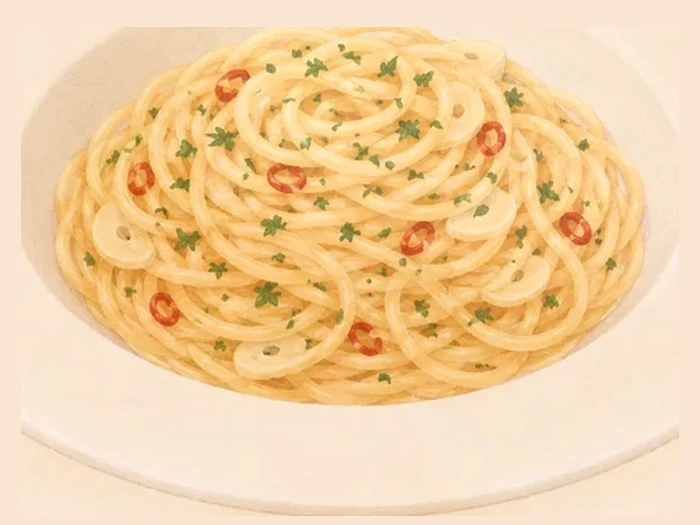
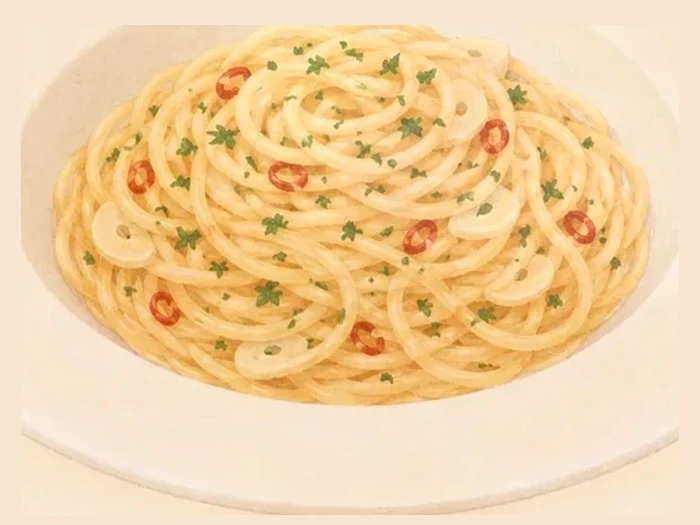
切圖改回「器皿完整優先」，撤掉框食物那套
⛔ 切圖解不了「食物看起來小」。試了三輪，每一輪都只是換一種失敗方式：
  · 框整盤（原本）        → 食物小
  · 框食物 + 留 6% 邊     → 盤子露九成又被削掉，最醜
  · 框食物 + 不留邊       → 每一張的盤子都被左右切斷

原因是兩個要求互斥：當原圖是「小份食物放在大盤中央」時，
框到食物就一定切到盤，框住盤就一定食物小。取景動不了構圖。

器皿完整是不能妥協的那個，所以固定回 bbox(SOLID)。
FOOD=70 留著，但只用來找「看得見的底緣」做貼底對齊，不再拿來框主體。

食物要變大只有一條路：重生成時讓食物填滿盤子。

diff --git a/index.html b/index.html
@@ -810,7 +810,7 @@ ol.steps li::before {
    ══════════════════════════════════════════════ */
 
 /* 素材版本。換過圖就 bump 一次，否則瀏覽器會一直用舊的快取 */
-const ASSETS = '53';
+const ASSETS = '54';
 const asset = p => p + '?v=' + ASSETS;
 
 const $ = (s, el = document) => el.querySelector(s);

diff --git a/assets/crop_dish.py b/assets/crop_dish.py
@@ -21,14 +21,11 @@ SOLID = 18                # 兩邊都會出事，18 是實測的中間值：
                           #    主體縮成小小一團浮在卡片中間（r10、r11 踩過）
                           #  r17 白盤：34→1102×728（切到盤）、18→1300×844（對）、
                           #  8→1424×1068（幾乎整張）。r10 小碟：8→712×476、18→558×334。
-FOOD = 70                 # 框「食物」用的門檻。器皿是白的、跟背景很近，
-                          # 用 SOLID 會把整個盤子框進去，食物就顯得小小一團。
-                          # 重點是菜不是盤子 —— 盤緣被切掉沒關係（r13 拌麵那張
-                          # 就是這樣，食物填掉 96% 的高度；框整盤的燉飯只有 60%）。
-FOOD_PAD = 0.0            # ⛔ 不要留邊。留 6% 會變成「盤子露九成、邊緣被削掉」，
-                          # 那是最醜的中間地帶 —— 看起來像切壞了。
-                          # 要嘛器皿整個在畫面內，要嘛切到它不再是主體（拌麵那張
-                          # 只看得到一點碗，讀起來是「麵填滿畫面」，就不覺得被切）。
+FOOD = 70                 # 只用來找「看得見的底緣」做貼底對齊，不拿來框主體。
+                          # ⛔ 試過用它框主體（想讓食物看起來大一點），結果每一張的
+                          # 盤子都被左右切斷。切圖解不了「食物小」——
+                          # 那是原圖構圖的問題（小份食物擺在大盤中央），
+                          # 唯一的解是重生成時讓食物填滿盤子。器皿完整優先。
 BASELINE = 12             # 下緣統一留這麼多 —— 見 render() 的註解
 QLO, QHI = 0.001, 0.999   # ⚠ 邊界用分位數不用 min/max —— 一顆雜點就會把框拉到整張。
 
@@ -129,13 +126,6 @@ def bbox(flat, x0, x1, y0, y1, thr=None):
     return q(xs, QLO), q(xs, QHI), q(ys, QLO), q(ys, QHI)
 
 
-def food_box(flat, x0, x1, y0, y1):
-    """框食物，不框器皿。往外放 FOOD_PAD 讓盤緣露一圈，
-    再夾回這一格的範圍內（不能吃到隔壁格）。"""
-    l, r, t, b = bbox(flat, x0, x1, y0, y1, FOOD)
-    pw, ph = int((r - l) * FOOD_PAD), int((b - t) * FOOD_PAD)
-    return (max(x0, l - pw), min(x1, r + pw),
-            max(y0, t - ph), min(y1, b + ph))
 
 
 def fix_bg(path):
@@ -229,6 +219,6 @@ for cell, rid in zip(want, a.ids):
     y0, y1 = rows[cy] if cy < len(rows) else rows[0]
     band = cols[cy] if cy < len(cols) else cols[0]
     x0, x1 = band[cx] if cx < len(band) else band[0]
-    render(flat, food_box(flat, x0, x1, y0, y1), f'assets/dish/r{rid}.webp')
+    render(flat, bbox(flat, x0, x1, y0, y1), f'assets/dish/r{rid}.webp')
 
 print('\n  ⚠ 別忘了把 index.html 的 const ASSETS 加一號。')
